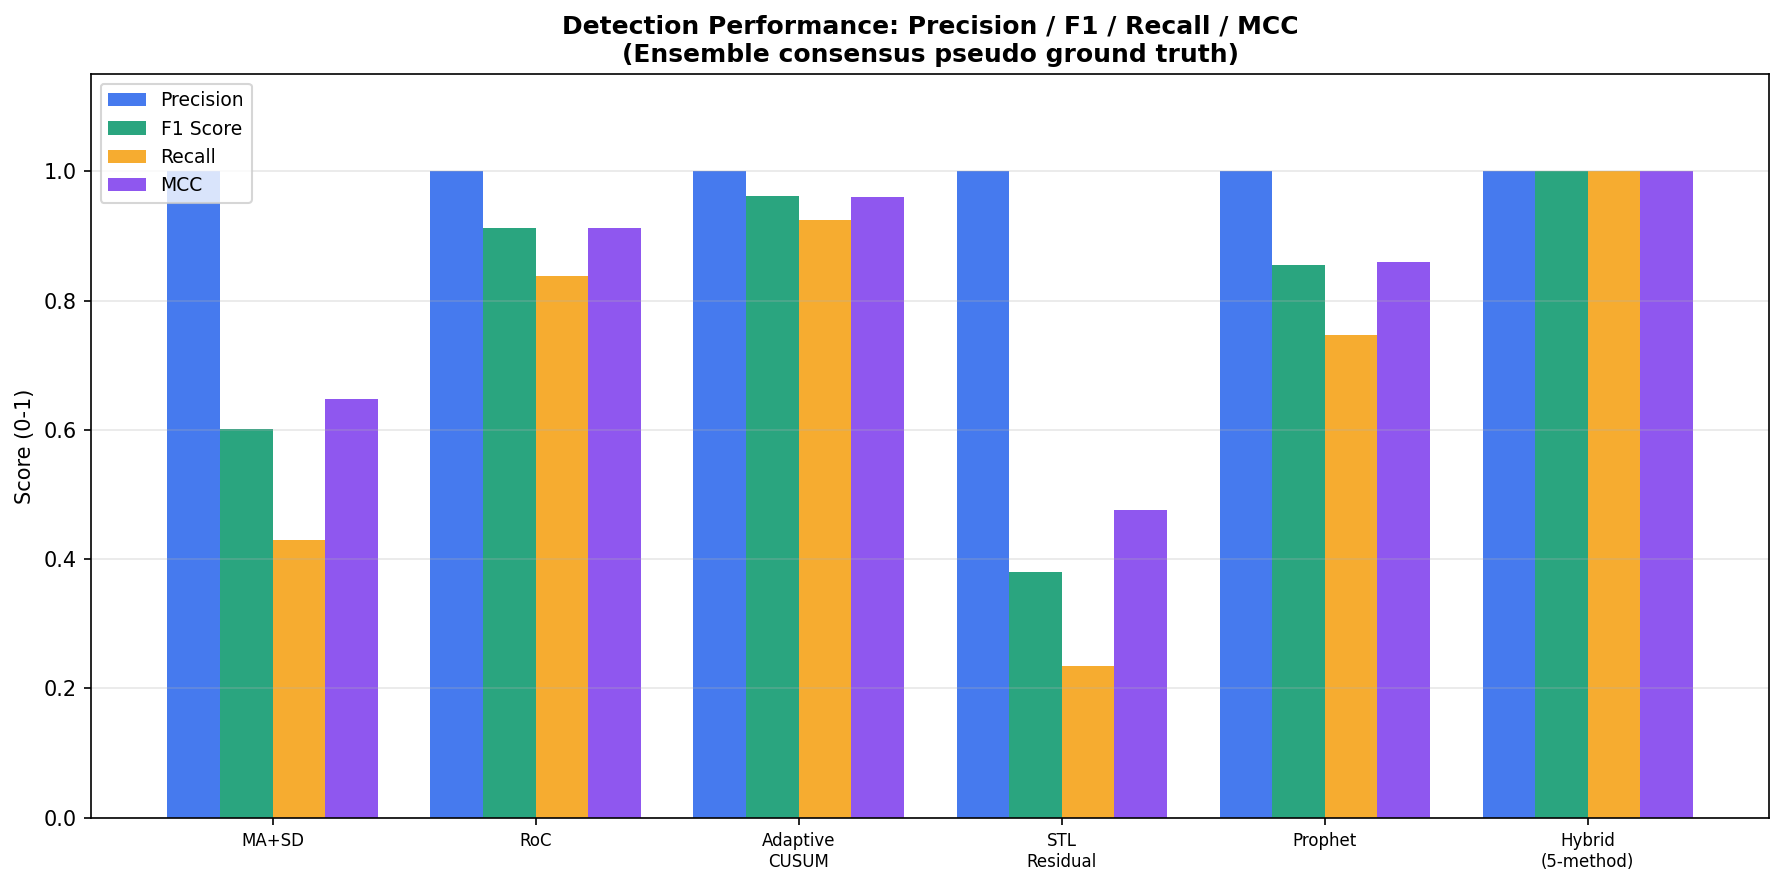
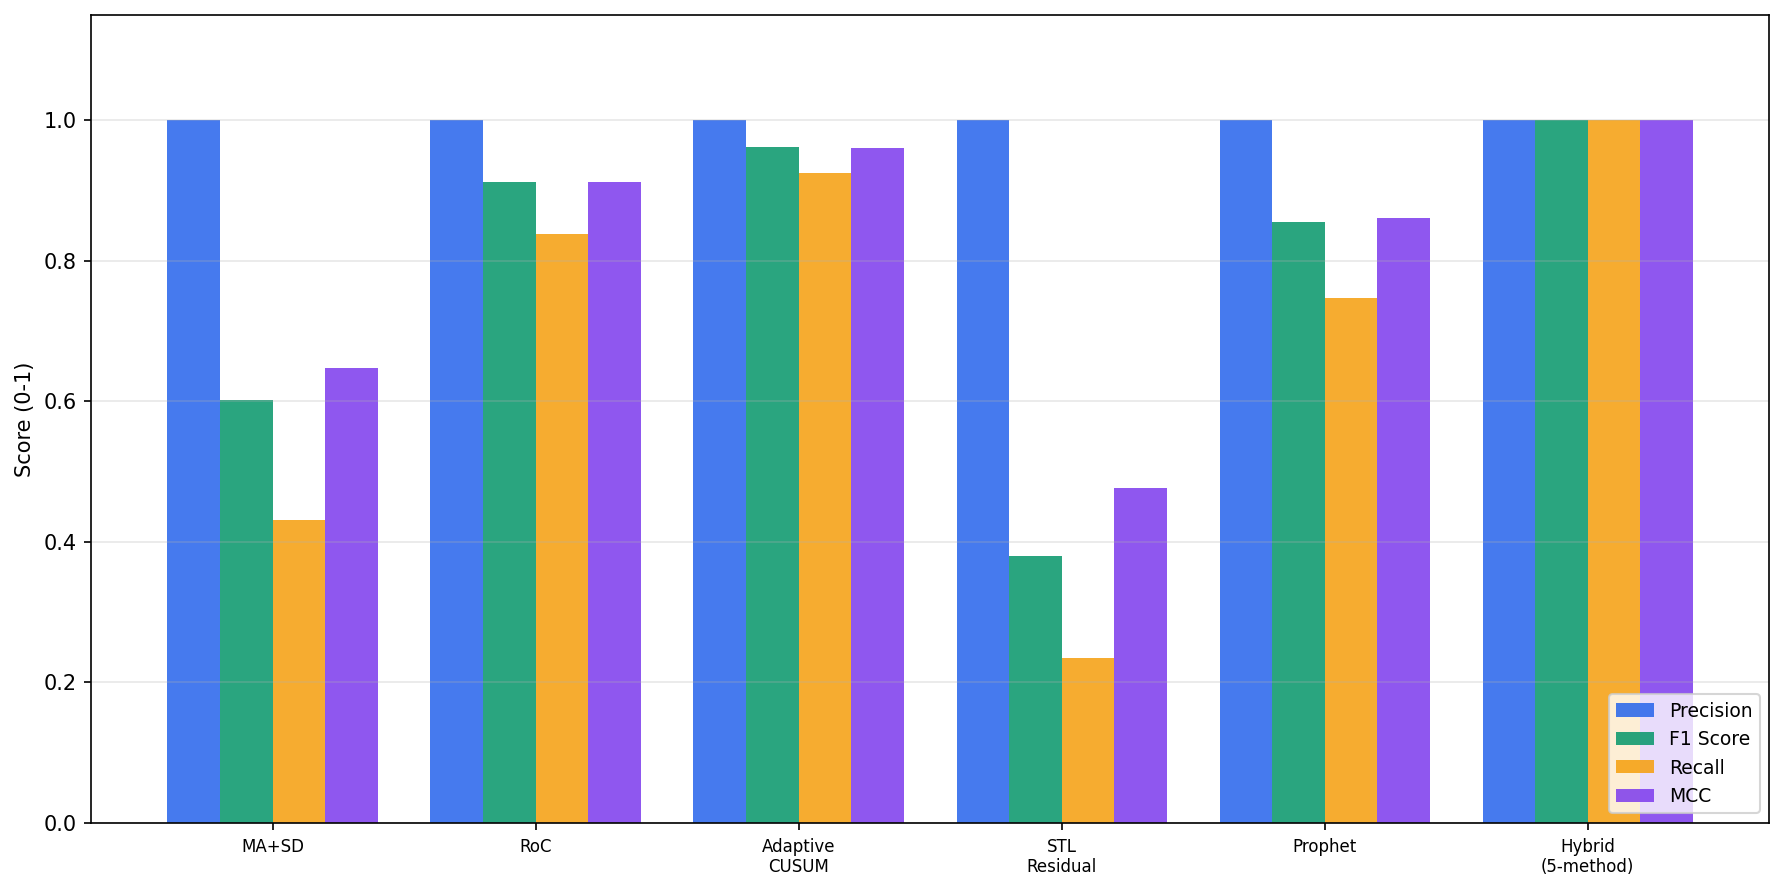
Update evaluation script to remove baked-in chart titles for IEEE standard formatting and update generated plots

diff --git a/ml_pipeline/05_evaluation.py b/ml_pipeline/05_evaluation.py
@@ -520,9 +520,7 @@ ax.bar(x + 1.5*w, mccs,  w, label='MCC',       color='#7c3aed', alpha=0.85)
 ax.set_xticks(x)
 ax.set_xticklabels([n.replace(' ', '\n') for n in names], fontsize=8)
 ax.set_ylabel('Score (0-1)')
-ax.set_title('Detection Performance: Precision / F1 / Recall / MCC\n'
-             '(Ensemble consensus pseudo ground truth)', fontweight='bold')
-ax.set_ylim(0, 1.15); ax.legend(fontsize=9); ax.grid(True, alpha=0.3, axis='y')
+ax.set_ylim(0, 1.15); ax.legend(fontsize=9, loc='lower right'); ax.grid(True, alpha=0.3, axis='y')
 plt.tight_layout()
 plt.savefig('output/plots/08_f1_comparison.png', dpi=150, bbox_inches='tight')
 plt.close()
@@ -531,7 +529,7 @@ print("  [OK] output/plots/08_f1_comparison.png")
 # -- Plot 7: Confusion Matrices ----------------------------
 n_detectors = len(results)
 fig, axes = plt.subplots(2, 3, figsize=(15, 9))
-fig.suptitle('Confusion Matrices -- All Detectors', fontsize=14, fontweight='bold')
+# fig.suptitle removed for IEEE compatibility
 
 for idx, (name, m) in enumerate(results.items()):
     ax = axes[idx // 3][idx % 3]
@@ -590,8 +588,6 @@ try:
     ax.set_xticklabels(categories, fontsize=10)
     ax.set_ylim(0, 1.1)
     ax.legend(loc='upper right', bbox_to_anchor=(1.3, 1.1), fontsize=9)
-    ax.set_title('Our Ensemble vs SOTA\n(* = literature values)', fontweight='bold',
-                 fontsize=12, pad=20)
     plt.tight_layout()
     plt.savefig('output/plots/10_sota_radar.png', dpi=150, bbox_inches='tight')
     plt.close()
